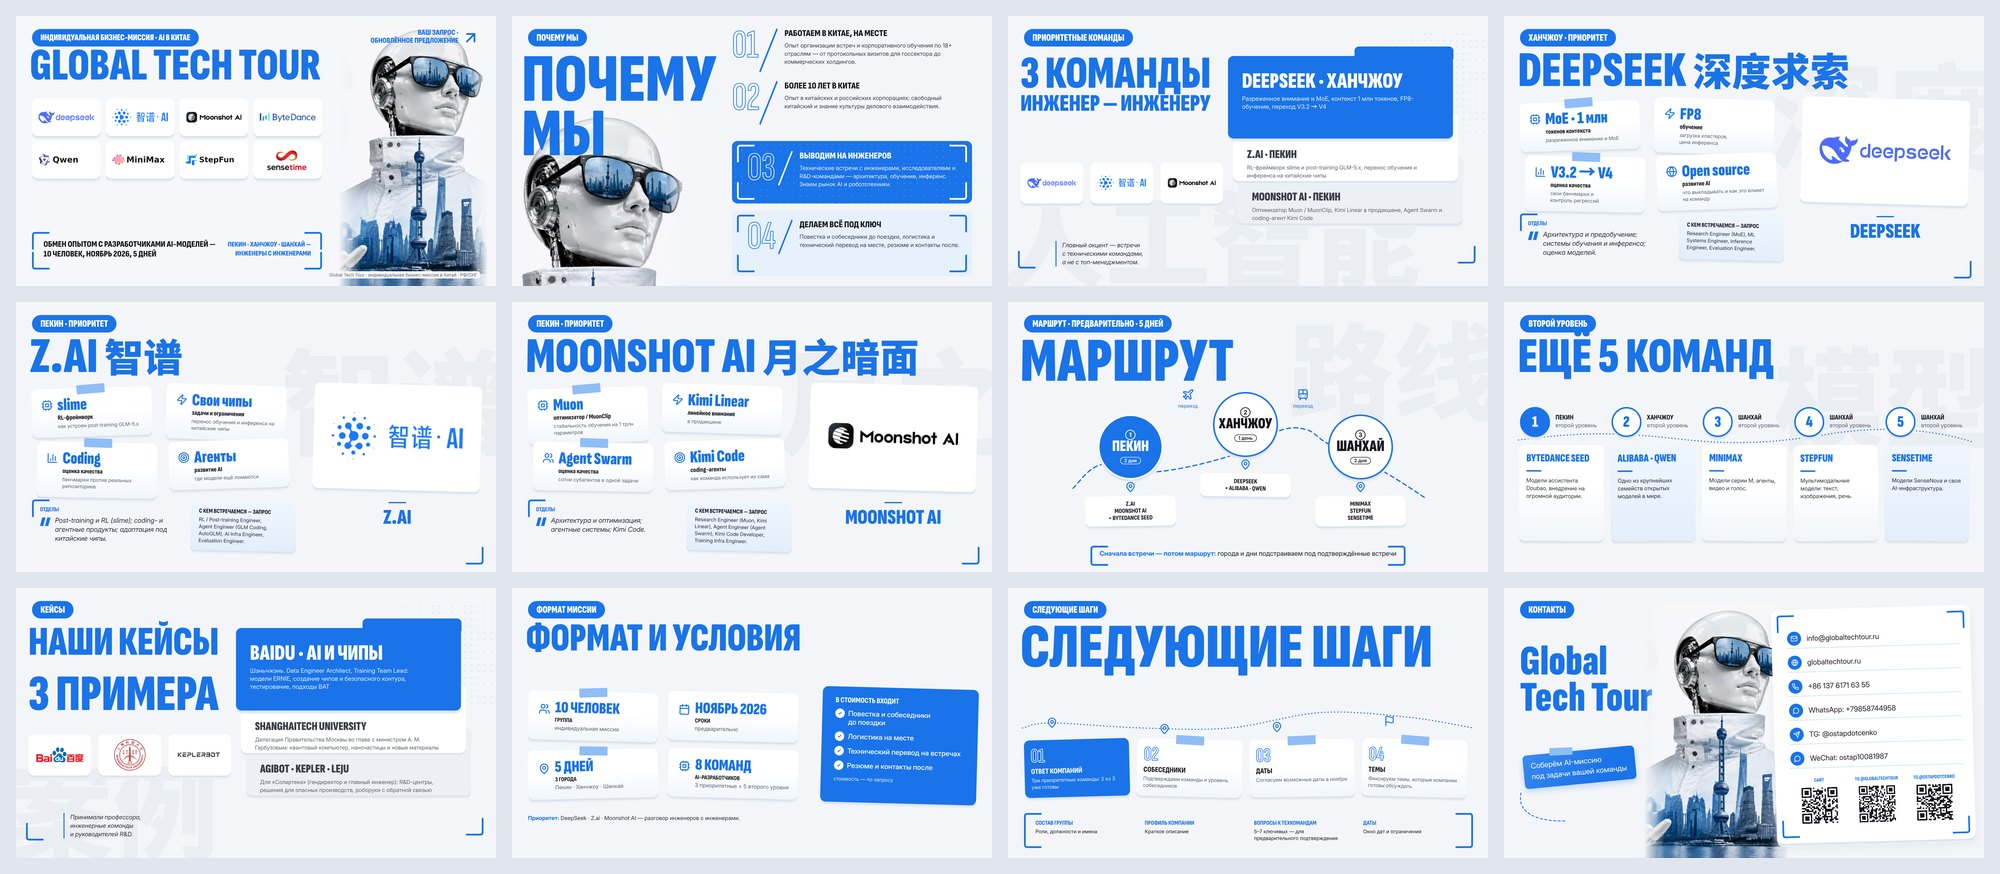
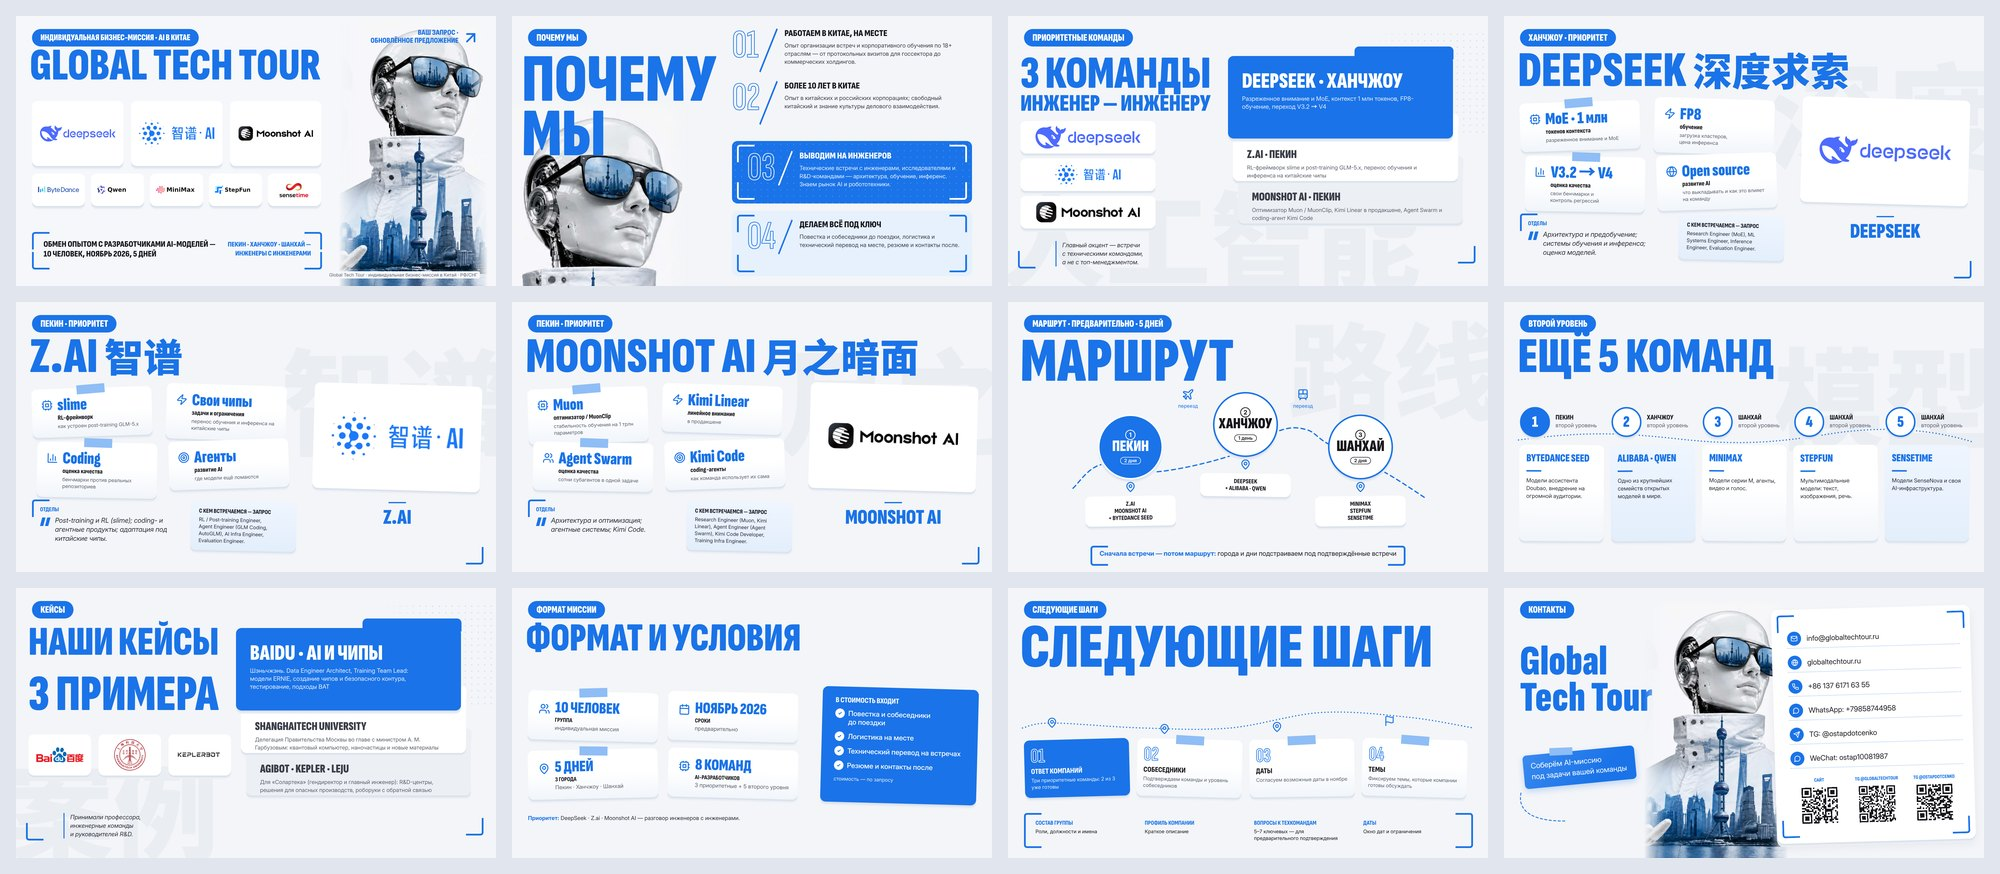
AI-миссия в Китай: на обложке DeepSeek, Z.ai, Moonshot крупно, остальные мелко; на слайде 3 логотипы вдвое крупнее
Обложка: поле logos_big (первые N логотипов — крупный ряд, остальные — мелкий).
Слайд layers: logos_layout "column" — логотипы столбиком, вдвое крупнее.

Claude-Session: https://claude.ai/code/session_01GWbvgKxue3PjjbbHEP4BVJ

Changed region(s): [[0.0, 0.1236, 0.155, 0.2162], [0.496, 0.1545, 0.589, 0.2471]]

diff --git a/презентации/шаблон/slides/cover.html b/презентации/шаблон/slides/cover.html
@@ -1,5 +1,5 @@
 {% import 'slides/_macros.html' as m with context %}
-{# Обложка. Варианты: logos (сетка до 12 логотипов) или logo (один большой логотип, как в Alibaba). #}
+{# Обложка. Варианты: logos (сетка до 12 логотипов; с logos_big: N — первые N крупно, остальные мелко) или logo (один большой логотип, как в Alibaba). #}
 <section class="slide s-cover">
   <div class="dots fade-c robot-dots"></div>
   <img class="robot" src="{{ (s.hero or (('assets/роботы/robot-' ~ deck.robot ~ '.png') if deck.robot else 'assets/robot.png'))|asset }}" alt="">
@@ -9,6 +9,19 @@
   <div class="arrow">{{ m.icon('arrow') }}</div>{% endif %}
   {% if s.logo %}
   <div class="card bigcard">{{ m.logo(s.logo) }}</div>
+  {% elif s.logos_big %}
+  {# первые logos_big логотипов — крупно в первый ряд, остальные — мелко во второй #}
+  {% set nb = s.logos_big %}{% set ns = s.logos|length - nb %}
+  {% set bw = ((1160 - (nb - 1) * 30) / nb)|int %}{% set sw = ((1160 - (ns - 1) * 24) / ns)|int if ns > 0 else 0 %}
+  <div class="logos">
+    {% for c in s.logos %}
+    {% if loop.index0 < nb %}
+    <div class="card lc big" style="left: {{ loop.index0 * (bw + 30) }}px; width: {{ bw }}px">{{ m.logo(c) }}</div>
+    {% else %}
+    <div class="card lc small" style="left: {{ (loop.index0 - nb) * (sw + 24) }}px; width: {{ sw }}px">{{ m.logo(c) }}</div>
+    {% endif %}
+    {% endfor %}
+  </div>
   {% else %}
   <div class="logos">
     {% for c in s.logos %}

diff --git a/презентации/шаблон/slides.css b/презентации/шаблон/slides.css
@@ -105,6 +105,9 @@ body { -webkit-print-color-adjust: exact; print-color-adjust: exact; }
 .s-cover .logos { position: absolute; left: 64px; top: 330px; width: 1160px; }
 .s-cover .lc { position: absolute; width: 275px; height: 150px; padding: 20px 26px; }
 .s-cover .lc .logo-text { font-size: 46px; }
+.s-cover .lc.big { top: 10px; height: 260px; padding: 40px 32px; }
+.s-cover .lc.small { top: 300px; height: 130px; padding: 22px 24px; }
+.s-cover .lc.small .logo-text { font-size: 34px; }
 .s-cover .bigcard { position: absolute; left: 64px; top: 330px; width: 1080px; height: 520px; padding: 110px 120px; }
 .s-cover .box { position: absolute; left: 64px; top: 864px; width: 1160px; height: 150px;
   display: flex; align-items: center; justify-content: space-between; padding: 0 44px 14px 46px; }
@@ -155,6 +158,7 @@ body { -webkit-print-color-adjust: exact; print-color-adjust: exact; }
 .s-layers .l2 .d, .s-layers .l3 .d { top: 160px; }
 .s-layers .l3 { left: 920px; top: 600px; height: 230px; background: #eceff3; z-index: 1; }
 .s-layers .lc { top: 585px; width: 250px; height: 165px; padding: 20px 28px; z-index: 1; }  /* логотипы в левой колонке (поле logos) */
+.s-layers .lc.column { left: 50px; width: 540px; height: 130px; padding: 17px 60px; }  /* logos_layout: column — столбиком, вдвое крупнее */
 .s-layers .quote { position: absolute; left: 190px; top: 900px; border-left: 4px solid var(--blue); padding-left: 23px;
   font: italic 400 24px/34px var(--text); color: var(--ink2); width: 520px; }
 

diff --git a/презентации/шаблон/slides/layers.html b/презентации/шаблон/slides/layers.html
@@ -11,7 +11,11 @@
     <div class="n">{{ it.name }}</div><div class="d">{{ it.text }}</div></div>
   {% endfor %}
   {% for c in (s.logos or [])[:3] %}
+  {% if s.logos_layout == 'column' %}
+  <div class="card lc column" style="top: {{ 420 + loop.index0 * 150 }}px">{{ m.logo(c) }}</div>
+  {% else %}
   <div class="card lc" style="left: {{ 50 + loop.index0 * 280 }}px">{{ m.logo(c) }}</div>
+  {% endif %}
   {% endfor %}
   {% if s.quote %}<div class="quote">{{ s.quote|br }}</div>{% endif %}
   <div class="br bl" style="left:40px;top:940px"></div>
